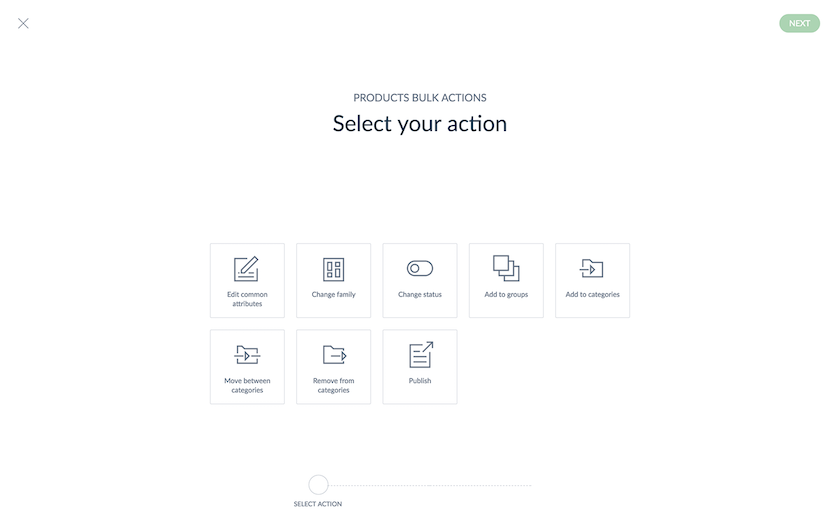
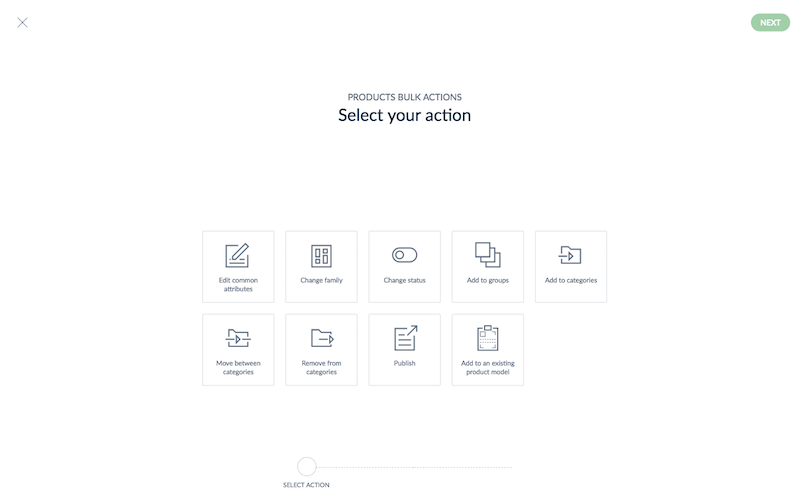
Add bulk action "add to an existing product model"

diff --git a/content/md/products-super-power/product-mass-actions.md b/content/md/products-super-power/product-mass-actions.md
@@ -1,7 +1,7 @@
 ---
 id: product-mass-actions
 themes: products-super-power, boost-your-productivity
-title: "**Mass actions** on products"
+title: "**Bulk actions** on products"
 popular: false
 ee-only: false
 related: sequential-edit
@@ -13,25 +13,24 @@ Bulk operations enable you to perform actions on multiple products at once. Thes
 
 To access the bulk actions, go on the Product grid, **select at least one product** and click on the `Bulk actions` button, at the bottom of the grid.
 
-# Available mass actions
+# Available bulk actions
 Here’s the list of the bulk operations available in the PIM (Community and Enterprise Editions):
-  - Edit common attributes: to edit the common attributes of your selection of products. For instance, set a new release date or a new value for an attribute. This action does not add attribute to products
-  - Change family: to choose/change the family of the selected products
-  - Change status (enable/disable): this action allows you to edit the status of one or several products, to enable or disable the products
-  - Add to groups: to add your selection of products in one or more groups
-  - Add to categories: to add product into categories
-  - Move between categories: to change your product categorization
-  - Remove products from categories: to remove products from one or more categories at once. Selected products will be uncategorized.
-  - Publish products (Enterprise Edition only): to mass publish products
-  - Unpublish products (Enterprise Edition only - available from the Published product grid): to mass unpublish products
-  - Edit products sequentially: to edit product one after the other through their product edit forms
-
+  - **Edit common attributes**: to edit the common attributes of your selection of products. For instance, set a new release date or a new value for an attribute. This action does not add attribute to products
+  - **Change family**: to choose/change the family of the selected products
+  - **Change status (enable/disable)**: this action allows you to edit the status of one or several products, to enable or disable the products
+  - **Add to groups**: to add your selection of products in one or more groups
+  - **Add to categories**: to add product into categories
+  - **Move between categories**: to change your product categorization
+  - **Remove products from categories**: to remove products from one or more categories at once. Selected products will be uncategorized.
+  - **Publish products (Enterprise Edition only)**: to mass publish products
+  - **Unpublish products (Enterprise Edition only - available from the Published product grid)**: to mass unpublish products
+  - **Add to an existing product model**: to add products as variant of a [product model](/articles/what-about-products-variants.html#what-is-a-product-model)
 
 ::: info  
 In order to perform a bulk operation on products, you need the rights to each possible action, and also the general permission to perform bulk actions on products.
 :::
 
-# How to?
+# How to perform bulk actions?
 
 1.  Select the desired products in the grid with the appropriate filters
 1.  Tick the products you want to mass edit via the down arrow of the toolbar: `All` for all the products recorded, `All visible` for all visible products on the ongoing page, `None` for none of the products:
@@ -43,13 +42,14 @@ In order to perform a bulk operation on products, you need the rights to each po
 
 | Operations  | Step of configuration  |
 |:------------|:-----------------------|
-| Edit common attributes  | Add attributes to the product form to set the values to be applied. The changes will be done for the scope and the locale selected in the product’s grid. <br>If you have several locales or scopes, you will have to do several mass actions                  |
+| Edit common attributes  | Add attributes to the product form to set the values to be applied. The changes will be done for the scope and the locale selected in the product’s grid. <br>If you have several locales or scopes, you will have to do several bulk actions                  |
 | Change family | Select the family to be applied on products   |
 | Change status | Select the status to be applied: enable or disable  |
 | Add to groups     | Check the groups in which the products will be brought together       |
 | Add to categories<br>Move between categories<br>Remove from categories | Tick the categories in which the products will be categorized, moved or removed.   |
 | Publish products  | Confirm the action     |
 | Unpublish products  | Confirm the action     |
+| Add to an existing product model  | Select the product model to gather the products    |
 
 Confirm the action with the `Confirm` button located in the middle of the screen.
 
@@ -71,12 +71,12 @@ After some of the bulk actions the rules will be automatically applied.
 The bulk actions do not support [product models](/articles/what-about-products-variants.html#what-is-a-product-model) yet.
 :::
 
-## Categorize, move or remove products
+# Categorize, move or remove products
 
 In order to save you some time, you can also directly categorize products in categories without an import / export thanks to a bulk action menu in the product grid.
 
 1.  Search for products in the grid with the appropriate filters
-2.  Select the products to be removed via the selection tool: Tick the products you want to update via the down arrow of the toolbar: `All` for all the products recorded, `All visible` for all visible products on the ongoing page, `none` for none of the products
+2.  Select the products to be categorized via the selection tool: Tick the products you want to update via the down arrow of the toolbar: `All` for all the products recorded, `All visible` for all visible products on the ongoing page, `none` for none of the products
 ![Mass edit options](../img/Products_BulkActionUppermenu.png)
 3.  Click on `Bulk Actions`
 4.  Select the operation to be performed from the screen menu
@@ -85,11 +85,35 @@ In order to save you some time, you can also directly categorize products in cat
 
 | Operations                  | Step of configuration |
 |:----------------------------|:----------------------|
-| Add to categories | The products will be positionned into the selected categories, the existing placement is kept |
+| Add to categories | The products will be positioned into the selected categories, the existing placement is kept |
 | Move between categories     | The products will be moved into the selected categories, the existing placement is lost       |
 | Remove from categories | The products will be removed from the selected categories                                     |
 
 Confirm the action with the `Confirm` button located in the middle of the screen.
+
+# Add products to an existing product model
+
+To ease the enrichment of [products with variants](/articles/what-about-products-variants.html), you can gather products in a product model to allow the enrichment of their common properties.
+
+1.  Search for products in the grid with the appropriate filters
+2.  Select the products to add to an existing product model: Tick the products you want to add via the down arrow of the toolbar: `All` for all the products recorded, `All visible` for all visible products on the ongoing page, `none` for none of the products
+3.  Click on `Bulk Actions`
+4.  Select `Add products to an existing product model` and then `Next`
+5.  Select a family, a [family variant](/articles/what-about-products-variants.html#what-is-a-family-variant) and a [product model](/articles/what-about-products-variants.html#what-is-a-product-model)
+![Mass edit options](../img/Products_BulkActionAddProductModel.png)
+6.  Click on `Next`
+7.  Confirm the action with the `Confirm` button located in the middle of the screen
+8.  The products allowed will be added to the selected product model
+
+:::info
+The attributes defined as `common attributes` in the [family variant](/articles/what-about-products-variants.html#what-is-a-family-variant) will be now enriched in the product model, the previous values for these attributes on the products are removed. For example, if you add 2 products with an existing description and you would like to gather them in a product model and manage a common description, their previous descriptions are removed.
+:::
+
+:::warning
+This operation can be only performed for non variant products, so products not already linked to a product model:
+  - You cannot add product models to a product model, only products.
+  - You cannot change the parent product model of a variant product.
+:::
 
 # Delete multiple products
 
